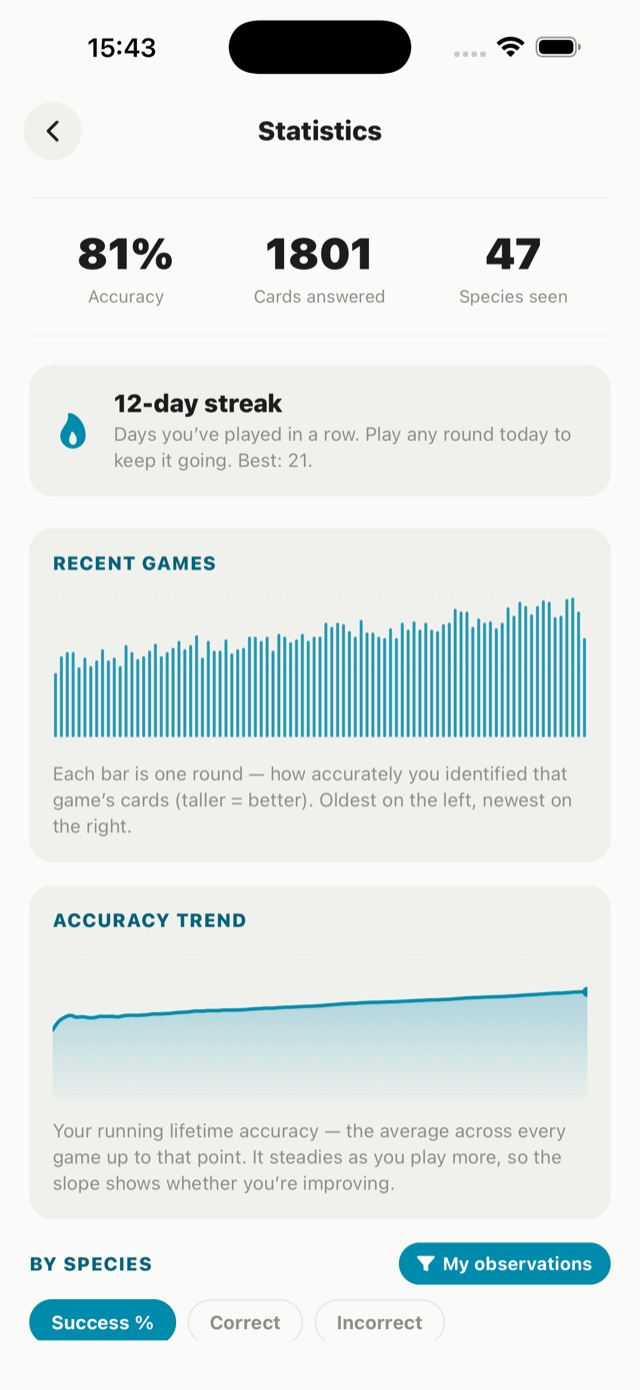
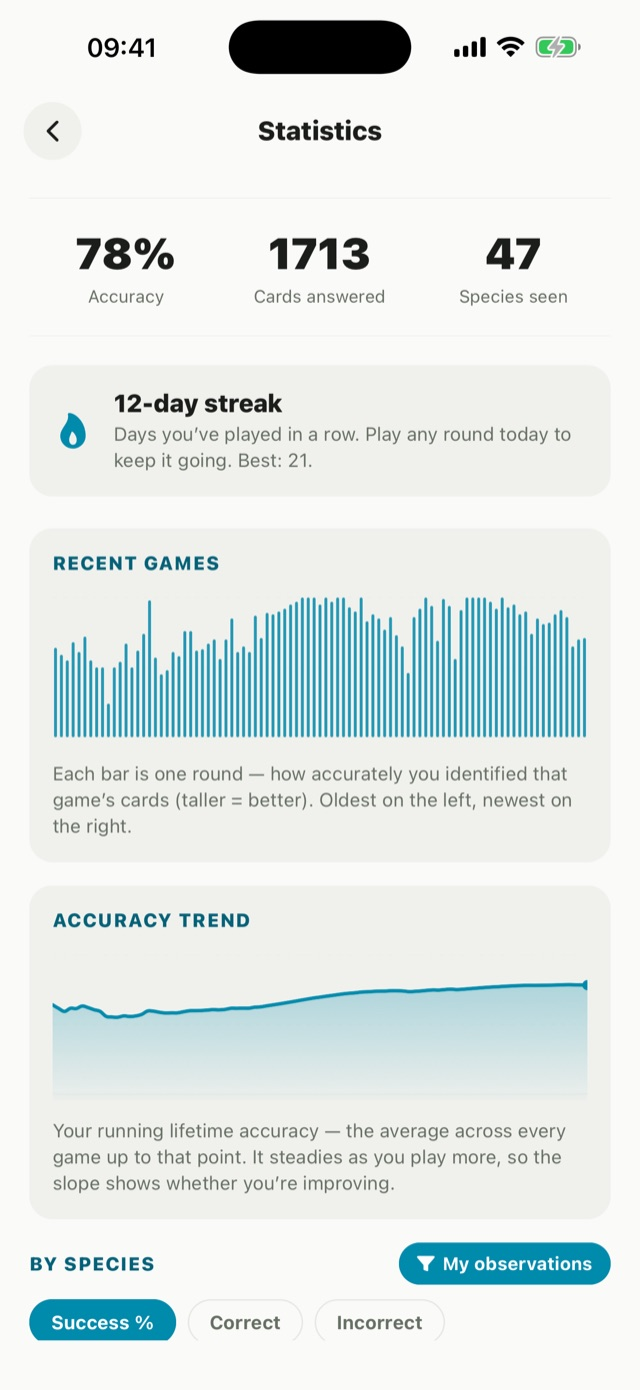
Website: realistic stats, detailed-analytics + nearby rows, watch shots, roadmap
- Swap the stats screenshot for a more realistic capture (78%, natural trend)
- Add a 'Detailed analytics, species by species' row (per-species table)
- Replace the lexicon row with the Nearby-species map/config screen
- Add an 'Also on Apple Watch' section with two watch screenshots
  (a quiz round + watch-face complications)
- Add an 'On the horizon' roadmap panel: shareable custom decks,
  spaced repetition, adaptive sessions
- Drop the now-unused lexicon.jpg / menu.jpg assets

diff --git a/index.html b/index.html
@@ -96,12 +96,72 @@ title: false
   }
   .modes strong { color: var(--text); font-weight: 600; }
 
+  /* Apple Watch — a pair of watch frames, centred */
+  .watch { max-width: 760px; margin: 8px auto 0; padding: 52px 20px 0; text-align: center; }
+  .watch h2 { font-size: clamp(1.5rem, 3.4vw, 1.9rem); letter-spacing: -.025em; margin: 0 0 12px; }
+  .watch p { color: var(--muted); font-size: 1.08rem; line-height: 1.55; max-width: 34rem; margin: 0 auto 34px; }
+  .watch-shots { display: flex; justify-content: center; gap: clamp(20px, 6vw, 52px); }
+  .wshot { width: 170px; max-width: 40vw; }
+  .wshot figure {
+    margin: 0; border-radius: 34px; overflow: hidden; background: #000;
+    border: 1px solid var(--border); box-shadow: var(--shadow);
+    aspect-ratio: 416 / 496;
+  }
+  .wshot img { display: block; width: 100%; height: 100%; object-fit: cover; }
+  .wshot figcaption { margin-top: 13px; font-size: .9rem; font-weight: 600; color: var(--muted); }
+
   @media (max-width: 680px) {
     .frow, .frow:nth-child(even) { flex-direction: column; text-align: center; gap: 24px; }
     .frow { padding: 34px 20px; }
     .frow-media { width: 208px; }
     .frow-text { max-width: 32ch; margin: 0 auto; }
+    .wshot { width: 140px; }
+    .wshot figure { border-radius: 26px; }
   }
+
+  /* roadmap — upcoming features, in a brand-tinted panel */
+  .roadmap { max-width: 1000px; margin: 80px auto 0; padding: 0 20px; }
+  .roadmap-inner {
+    border-radius: 26px;
+    padding: clamp(34px, 5vw, 60px);
+    background:
+      radial-gradient(130% 150% at 100% 0%, color-mix(in srgb, var(--brand) 16%, transparent) 0%, transparent 55%),
+      var(--card);
+    border: 1px solid var(--border);
+    box-shadow: var(--shadow);
+    text-align: center;
+  }
+  .roadmap .eyebrow {
+    display: inline-block; font-size: 12px; font-weight: 700;
+    letter-spacing: .14em; text-transform: uppercase;
+    color: var(--brand-strong); margin: 0 0 12px;
+  }
+  .roadmap h2 { font-size: clamp(1.6rem, 3.6vw, 2.1rem); letter-spacing: -.025em; margin: 0 0 10px; }
+  .roadmap .lead { color: var(--muted); font-size: 1.06rem; max-width: 46ch; margin: 0 auto 40px; line-height: 1.5; }
+  .plan-grid {
+    display: grid; gap: 18px; text-align: left;
+    grid-template-columns: repeat(auto-fit, minmax(228px, 1fr));
+  }
+  .plan {
+    position: relative;
+    padding: 24px 22px 22px;
+    border-radius: 18px;
+    background: color-mix(in srgb, var(--bg) 55%, var(--card));
+    border: 1px solid var(--border);
+  }
+  .plan .num {
+    font-family: 'Fredoka', var(--font);
+    font-size: 1.15rem; font-weight: 600; color: var(--brand); letter-spacing: .02em;
+  }
+  .plan .pill {
+    position: absolute; top: 18px; right: 18px;
+    font-size: 10px; font-weight: 700; letter-spacing: .08em; text-transform: uppercase;
+    color: var(--brand-strong);
+    background: color-mix(in srgb, var(--brand) 14%, transparent);
+    padding: 4px 9px; border-radius: 999px;
+  }
+  .plan h3 { margin: 10px 0 6px; font-size: 1.12rem; letter-spacing: -.01em; }
+  .plan p { margin: 0; color: var(--muted); font-size: .97rem; line-height: 1.5; }
 
   .closer {
     text-align: center;
@@ -172,21 +232,75 @@ title: false
 
   <div class="frow">
     <div class="frow-media">
-      <figure><img src="/assets/screenshots/lexicon.jpg" alt="gote lexicon — a searchable list of species with photos and scientific names" loading="lazy" width="640" height="1390"></figure>
+      <figure><img src="/assets/screenshots/analytics.jpg" alt="gote per-species stats — each species with its correct and incorrect answer counts" loading="lazy" width="640" height="1390"></figure>
     </div>
     <div class="frow-text">
-      <h2>A field guide that builds itself.</h2>
-      <p>Everything you’ve seen gathers in one searchable place. Or drop a pin on
-      the map and learn what actually lives there.</p>
+      <h2>Detailed analytics, species by species.</h2>
+      <p>See exactly which ones you’ve nailed and which keep tripping you up —
+      every right and wrong answer, ranked by how well you know each.</p>
+    </div>
+  </div>
+
+  <div class="frow">
+    <div class="frow-media">
+      <figure><img src="/assets/screenshots/nearby.jpg" alt="gote nearby-species setup — a map with a location pin and a search radius" loading="lazy" width="640" height="1390"></figure>
+    </div>
+    <div class="frow-text">
+      <h2>A game for wherever you are.</h2>
+      <p>Drop a pin and study the species most commonly seen there — drawn from
+      every iNaturalist observer around that spot, not just your own records.</p>
     </div>
   </div>
 </section>
 
 <p class="modes">
-  Play it your way — <strong>by name, by picture, speedrun, or flashcards</strong>,
-  from a sample set or your own iNaturalist observations. There’s an
-  Apple&nbsp;Watch app, too.
+  Play it your way — <strong>by name, by picture, speedrun, flash cards or a
+  custom set</strong> — from a starter deck or your own iNaturalist observations.
 </p>
+
+<section class="watch">
+  <h2>Also on Apple&nbsp;Watch.</h2>
+  <p>Play a quick photo round on your wrist, and keep your lifetime accuracy and
+  streak right on your watch face.</p>
+  <div class="watch-shots">
+    <div class="wshot">
+      <figure><img src="/assets/screenshots/watch-play.jpg" alt="gote on Apple Watch — a quiz round with four species answers" loading="lazy" width="416" height="496"></figure>
+      <figcaption>A round on your wrist</figcaption>
+    </div>
+    <div class="wshot">
+      <figure><img src="/assets/screenshots/watch-face.jpg" alt="gote Apple Watch complications — accuracy ring and streak on the watch face" loading="lazy" width="416" height="496"></figure>
+      <figcaption>Watch-face complications</figcaption>
+    </div>
+  </div>
+</section>
+
+<section class="roadmap">
+  <div class="roadmap-inner">
+    <span class="eyebrow">On the horizon</span>
+    <h2>Where gote is headed.</h2>
+    <p class="lead">A few things being built next — free, like everything else.</p>
+    <div class="plan-grid">
+      <div class="plan">
+        <span class="pill">Planned</span>
+        <span class="num">01</span>
+        <h3>Shareable custom decks</h3>
+        <p>Build your own set — a local patch, a field trip, a class syllabus — and share it with anyone through a single link.</p>
+      </div>
+      <div class="plan">
+        <span class="pill">Planned</span>
+        <span class="num">02</span>
+        <h3>Spaced repetition</h3>
+        <p>Smarter practice that resurfaces each species right before you’d forget it, so the names stick for good.</p>
+      </div>
+      <div class="plan">
+        <span class="pill">Planned</span>
+        <span class="num">03</span>
+        <h3>Adaptive sessions</h3>
+        <p>Rounds that quietly lean into your weak spots and ease off on the ones you’ve already mastered.</p>
+      </div>
+    </div>
+  </div>
+</section>
 
 <section class="closer">
   <h2>For the perpetually curious.</h2>
